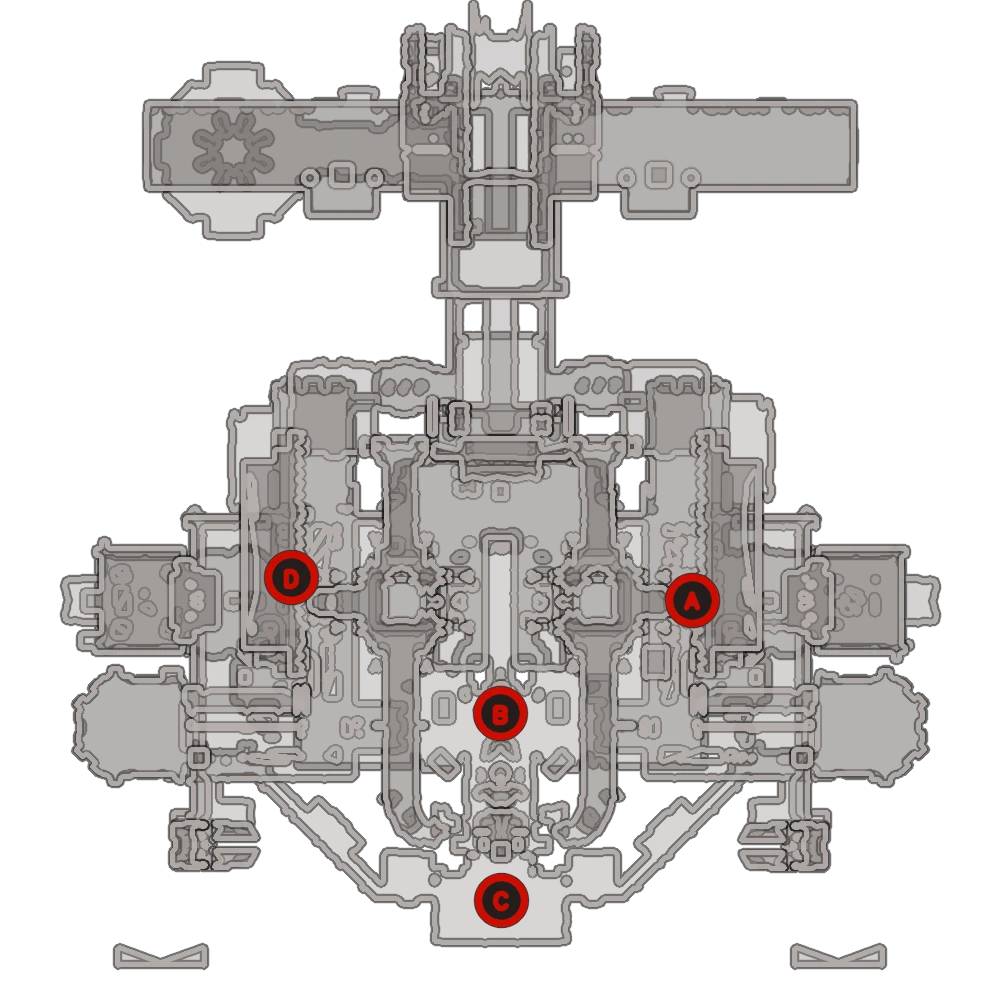
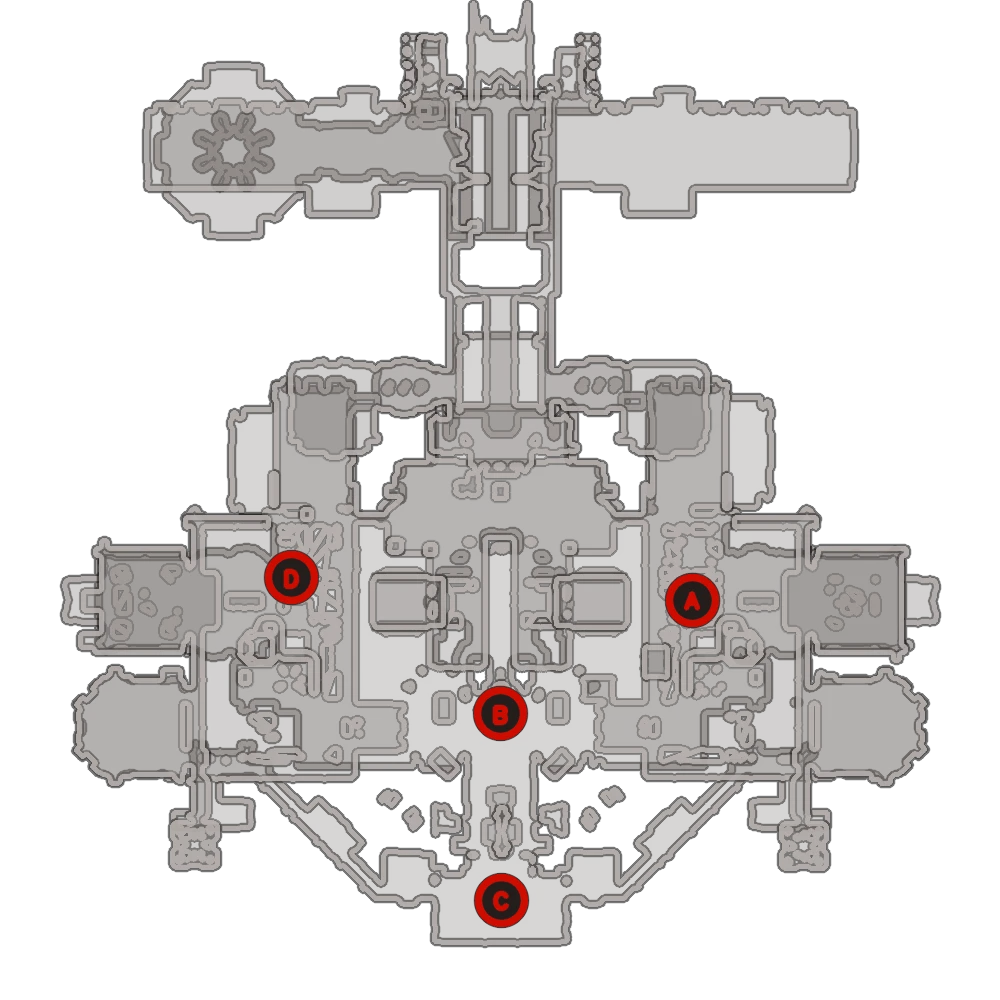
Fix Gas City analyzer minimaps

diff --git a/analyzer/index.html b/analyzer/index.html
@@ -156,7 +156,7 @@
   </div>
 
   <script src="./html2canvas.min.js"></script>
-  <script src="./minimaps/catalog-20260821-7.js"></script>
+  <script src="./minimaps/catalog-20260821-9.js"></script>
   <script src="./parser.js?v=20260820-67"></script>
   <script src="./tier-data.js?v=20260816-2"></script>
   <script src="./spawn-alignment.js?v=20260820-1"></script>

diff --git a/analyzer/tools/build_game_minimaps.py b/analyzer/tools/build_game_minimaps.py
@@ -18,7 +18,7 @@ import cv2
 import numpy as np
 
 
-IMMUTABLE_CATALOG_FILENAME = "catalog-20260821-7.js"
+IMMUTABLE_CATALOG_FILENAME = "catalog-20260821-9.js"
 
 
 GROUP_NODES = {
@@ -231,13 +231,18 @@ ANALYZER_SPAWN_SUPPLEMENTS = {
     },
 }
 
-# The GasSpawn02 composition contains two sparse high-altitude helper bands
-# that project as ceiling clutter and two detached chevrons below the playable
-# arena. Its runtime connector is assembled procedurally and is therefore not
-# part of either static source mesh; draw the reviewed walkable link into the
+# Both Gas City compositions retain their three lowest authored height bands
+# across the main room and discard only the remaining ceiling bands. The
+# GasSpawn02 side-room stairs rise through the otherwise unsampled gap between
+# bands two and three, so their real walkable mesh is recovered separately.
+# Its runtime connector is assembled procedurally and is therefore not part of
+# either static source mesh; draw the reviewed walkable link into the
 # Analyzer-only minimap without changing the 3D viewer geometry.
+GAS_SPAWN_04_GROUP = "callisto+sinai+io"
 GAS_SPAWN_02_GROUP = "callisto+sinai+io~2"
-GAS_SPAWN_02_MAX_MAP_HEIGHT = 10.0
+GAS_CITY_RENDER_BANDS = 3
+GAS_CITY_MAIN_ROOM_HEIGHTS = (-17.947, -6.0, 4.0)
+GAS_SPAWN_02_SIDE_ROOM_HEIGHTS = (-17.947, -3.947, 12.5)
 OROKIN_TOWER_DEFENSE_GROUP = "mithra+taranis+belenus"
 OROKIN_TOWER_CEILING_BAND_MIN_HEIGHT = 2.0
 CORPUS_SHIP_DEFENSE_GROUP = "cytherean+xini+gulliver+romula+proteus"
@@ -285,11 +290,13 @@ GAS_SPAWN_02_CONNECTOR = np.asarray([
     [-11.0, -4.0, 12.0],
     [-9.5, -4.0, 10.0],
 ], dtype=np.float32)
+GAS_SPAWN_02_SIDE_ROOM_MIN_Z = float(GAS_SPAWN_02_CONNECTOR[:, 2].min())
 GAS_SPAWN_02_CONNECTOR_DETAILS = (
     np.asarray([[-7.0, -4.0, 10.0], [-7.0, -4.0, 48.0]], dtype=np.float32),
     np.asarray([[7.0, -4.0, 10.0], [7.0, -4.0, 48.0]], dtype=np.float32),
     np.asarray([[-7.0, -4.0, 25.0], [7.0, -4.0, 25.0]], dtype=np.float32),
 )
+GAS_SPAWN_02_MIN_INTERBAND_COMPONENT_AREA = 1000
 GAS_SPAWN_02_SPAWN_CLOSETS = (
     np.asarray([
         [71.0, -4.0, 67.0], [89.0, -4.0, 67.0],
@@ -470,6 +477,7 @@ def render_map(
     overlay: dict,
     output_path: Path,
     size: int = 1000,
+    main_room_geometry: tuple[np.ndarray, np.ndarray] | None = None,
 ) -> dict:
     lo, hi = map_bounds(overlay, positions)
     if group_id == CORPUS_SHIP_DEFENSE_GROUP:
@@ -514,46 +522,149 @@ def render_map(
     map_objective = overlay.get("_mapObjective", overlay.get("objective")) or []
     spawn_heights = [float(item.get("y", 0.0)) for item in map_spawns]
     objective_heights = [float(item.get("y", 0.0)) for item in map_objective]
-    heights = cluster_heights(spawn_heights + objective_heights)
-    if group_id == GAS_SPAWN_02_GROUP:
-        heights = [height for height in heights if height < GAS_SPAWN_02_MAX_MAP_HEIGHT]
+    source_heights = cluster_heights(spawn_heights + objective_heights)
+    heights = source_heights
+    gas_spawn_02_side_heights = None
+    gas_spawn_02_side_upper_cut = None
+    if group_id in (GAS_SPAWN_04_GROUP, GAS_SPAWN_02_GROUP):
+        # GasSpawn04 supplies the reviewed three-band treatment for the shared
+        # main room. GasSpawn02 uses different heights only beyond the real
+        # connector boundary, where its alternate side room begins.
+        heights = list(GAS_CITY_MAIN_ROOM_HEIGHTS)
+        if group_id == GAS_SPAWN_02_GROUP and len(source_heights) > len(heights):
+            gas_spawn_02_side_heights = list(GAS_SPAWN_02_SIDE_ROOM_HEIGHTS)
+            # GasSpawn02's 12.5 m third band sits only 3.5 m below its 16 m
+            # fourth band. The usual +/-3 m floor tolerance can therefore pick
+            # up the lower edges of sloped fourth-band triangles. Split those
+            # side-room bands at their midpoint while the shared main room keeps
+            # GasSpawn04's exact three heights.
+            gas_spawn_02_side_upper_cut = (
+                gas_spawn_02_side_heights[-1] + source_heights[len(heights)]
+            ) * 0.5
     elif group_id == HYF_DEFENSE_GROUP:
         heights = list(HYF_PLAYABLE_FLOOR_HEIGHTS)
     chunk_size = 160_000
+    geometry_sources = [(positions, faces, "all")]
+    if group_id == GAS_SPAWN_02_GROUP and main_room_geometry is not None:
+        main_positions, main_faces = main_room_geometry
+        geometry_sources = [
+            (main_positions, main_faces, "main"),
+            (positions, faces, "side"),
+        ]
 
     for band_index, height in enumerate(heights):
+        gas_spawn_02_side_height = (
+            gas_spawn_02_side_heights[band_index]
+            if gas_spawn_02_side_heights is not None
+            else None
+        )
         height_tolerance = (
             HYF_ADDITIONAL_FLOOR_TOLERANCE
             if group_id == HYF_DEFENSE_GROUP and band_index > 0
             else 3.0
         )
         mask = np.zeros((size, size), dtype=np.uint8)
-        for start in range(0, len(faces), chunk_size):
-            tri = positions[faces[start : start + chunk_size]]
-            ab = tri[:, 1] - tri[:, 0]
-            ac = tri[:, 2] - tri[:, 0]
-            normals = np.cross(ab, ac)
-            normal_length = np.linalg.norm(normals, axis=1)
-            centroids = tri.mean(axis=1)
-            area = normal_length * 0.5
-            keep = (
-                (normal_length > 1e-5)
-                & (np.abs(normals[:, 1]) / np.maximum(normal_length, 1e-9) > 0.58)
-                & (np.abs(centroids[:, 1] - height) <= height_tolerance)
-                & (area > 0.01)
-                & (area < 520.0)
-                & (centroids[:, 0] >= lo[0])
-                & (centroids[:, 0] <= hi[0])
-                & (centroids[:, 2] >= lo[1])
-                & (centroids[:, 2] <= hi[1])
-            )
-            selected = tri[keep]
-            if not len(selected):
-                continue
-            polygons = project(selected.reshape((-1, 3))).reshape((-1, 3, 2))
-            cv2.fillPoly(mask, polygons, 255, lineType=cv2.LINE_AA)
+        recover_gas_spawn_02_stairs = (
+            group_id == GAS_SPAWN_02_GROUP
+            and band_index == len(heights) - 1
+            and len(heights) >= 3
+        )
+        interband_mask = (
+            np.zeros((size, size), dtype=np.uint8)
+            if recover_gas_spawn_02_stairs
+            else None
+        )
+        for source_positions, source_faces, room_scope in geometry_sources:
+            for start in range(0, len(source_faces), chunk_size):
+                tri = source_positions[source_faces[start : start + chunk_size]]
+                ab = tri[:, 1] - tri[:, 0]
+                ac = tri[:, 2] - tri[:, 0]
+                normals = np.cross(ab, ac)
+                normal_length = np.linalg.norm(normals, axis=1)
+                centroids = tri.mean(axis=1)
+                area = normal_length * 0.5
+                height_match = (
+                    np.abs(centroids[:, 1] - height) <= height_tolerance
+                )
+                room_match = np.ones(len(tri), dtype=bool)
+                if room_scope == "main":
+                    room_match = centroids[:, 2] < GAS_SPAWN_02_SIDE_ROOM_MIN_Z
+                elif room_scope == "side":
+                    room_match = centroids[:, 2] >= GAS_SPAWN_02_SIDE_ROOM_MIN_Z
+                    height_match = (
+                        np.abs(centroids[:, 1] - gas_spawn_02_side_height)
+                        <= height_tolerance
+                    )
+                    if (
+                        gas_spawn_02_side_upper_cut is not None
+                        and band_index == len(heights) - 1
+                    ):
+                        height_match &= (
+                            centroids[:, 1] < gas_spawn_02_side_upper_cut
+                        )
+                keep = (
+                    (normal_length > 1e-5)
+                    & (np.abs(normals[:, 1]) / np.maximum(normal_length, 1e-9) > 0.58)
+                    & height_match
+                    & room_match
+                    & (area > 0.01)
+                    & (area < 520.0)
+                    & (centroids[:, 0] >= lo[0])
+                    & (centroids[:, 0] <= hi[0])
+                    & (centroids[:, 2] >= lo[1])
+                    & (centroids[:, 2] <= hi[1])
+                )
+                selected = tri[keep]
+                if len(selected):
+                    polygons = project(selected.reshape((-1, 3))).reshape((-1, 3, 2))
+                    cv2.fillPoly(mask, polygons, 255, lineType=cv2.LINE_AA)
 
-        if group_id == GAS_SPAWN_02_GROUP and abs(height + 4.0) <= 3.0:
+                if interband_mask is not None and room_scope != "main":
+                    # Rasterize the source mesh's actual walkable surfaces
+                    # between bands two and three. Component filtering below
+                    # retains the two substantial stair approaches and rejects
+                    # tiny prop and ceiling fragments; no stair outline is
+                    # authored by hand.
+                    interband_keep = (
+                        (normal_length > 1e-5)
+                        & (
+                            np.abs(normals[:, 1])
+                            / np.maximum(normal_length, 1e-9)
+                            > 0.58
+                        )
+                        & (
+                            centroids[:, 1]
+                            > gas_spawn_02_side_heights[-2] + height_tolerance
+                        )
+                        & (
+                            centroids[:, 1]
+                            < gas_spawn_02_side_height - height_tolerance
+                        )
+                        & (centroids[:, 2] >= GAS_SPAWN_02_SIDE_ROOM_MIN_Z)
+                        & (area > 0.01)
+                        & (area < 520.0)
+                        & (centroids[:, 0] >= lo[0])
+                        & (centroids[:, 0] <= hi[0])
+                        & (centroids[:, 2] >= lo[1])
+                        & (centroids[:, 2] <= hi[1])
+                    )
+                    interband = tri[interband_keep]
+                    if len(interband):
+                        polygons = project(interband.reshape((-1, 3))).reshape(
+                            (-1, 3, 2)
+                        )
+                        cv2.fillPoly(
+                            interband_mask,
+                            polygons,
+                            255,
+                            lineType=cv2.LINE_AA,
+                        )
+
+        if (
+            group_id == GAS_SPAWN_02_GROUP
+            and gas_spawn_02_side_height is not None
+            and abs(gas_spawn_02_side_height + 4.0) <= 3.0
+        ):
             connector = project(GAS_SPAWN_02_CONNECTOR).reshape((-1, 1, 2))
             cv2.fillPoly(mask, [connector], 255, lineType=cv2.LINE_AA)
             for closet in GAS_SPAWN_02_SPAWN_CLOSETS:
@@ -568,6 +679,29 @@ def render_map(
             # space. This restores the upper and lower-middle playable decks
             # without repainting the interior with ceiling/furniture clutter.
             mask[image[:, :, 3] > 0] = 0
+
+        if interband_mask is not None:
+            interband_mask = cv2.morphologyEx(
+                interband_mask,
+                cv2.MORPH_CLOSE,
+                cv2.getStructuringElement(cv2.MORPH_ELLIPSE, (3, 3)),
+            )
+            occupied = np.maximum(mask, image[:, :, 3])
+            occupied = cv2.dilate(occupied, np.ones((3, 3), dtype=np.uint8))
+            interband_mask[occupied > 0] = 0
+            component_count, component_labels, component_stats, _ = (
+                cv2.connectedComponentsWithStats(
+                    (interband_mask > 0).astype(np.uint8), 8
+                )
+            )
+            retained = np.zeros_like(interband_mask)
+            minimum_area = int(
+                GAS_SPAWN_02_MIN_INTERBAND_COMPONENT_AREA * (size / 1000.0) ** 2
+            )
+            for component in range(1, component_count):
+                if int(component_stats[component, cv2.CC_STAT_AREA]) >= minimum_area:
+                    retained[component_labels == component] = 255
+            mask = np.maximum(mask, retained)
 
         # Close sub-pixel extraction seams without flattening real doorways and
         # holes, then draw only the resulting room/perimeter contours.
@@ -691,7 +825,8 @@ def render_map(
 
     asset_versions = {
         "stofler": "bottom-floor-20260816",
-        GAS_SPAWN_02_GROUP: "clean-floor-20260819",
+        GAS_SPAWN_04_GROUP: "three-band-20260821",
+        GAS_SPAWN_02_GROUP: "shared-main-mesh-stairs-20260821",
         OROKIN_TOWER_DEFENSE_GROUP: "ceiling-trim-20260820",
         CORPUS_SHIP_DEFENSE_GROUP: "runtime-side-rooms-20260821",
         HYDRON_DEFENSE_GROUP: "counterclockwise-20260821",
@@ -758,6 +893,7 @@ def main() -> None:
     current_manifest = json.loads((current_dir / "maps.json").read_text(encoding="utf-8"))
     catalog: dict[str, dict] = {}
     nodes: dict[str, list[str]] = {}
+    gas_spawn_04_geometry: tuple[np.ndarray, np.ndarray] | None = None
     for group_id, (source_name, source_group_id) in SOURCE_GROUPS.items():
         source_dir = source_dirs[source_name]
         group = manifests[source_name]["groups"][source_group_id]
@@ -772,7 +908,20 @@ def main() -> None:
             output_name = f"{group_id}-counterclockwise.webp"
         else:
             output_name = f"{group_id}.webp"
-        entry = render_map(group_id, positions, faces, overlay, output_dir / output_name)
+        entry = render_map(
+            group_id,
+            positions,
+            faces,
+            overlay,
+            output_dir / output_name,
+            main_room_geometry=(
+                gas_spawn_04_geometry
+                if group_id == GAS_SPAWN_02_GROUP
+                else None
+            ),
+        )
+        if group_id == GAS_SPAWN_04_GROUP:
+            gas_spawn_04_geometry = (positions, faces)
         entry["spawnPoints"] = merge_spawn_supplements(
             entry["spawnPoints"],
             ANALYZER_SPAWN_SUPPLEMENTS.get(group_id, {}),
